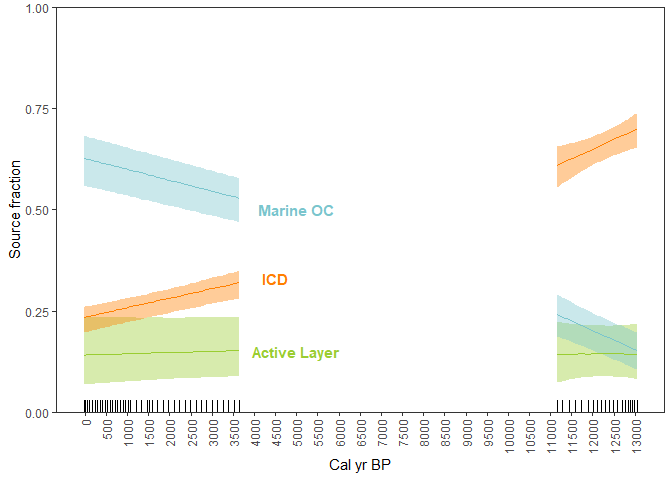
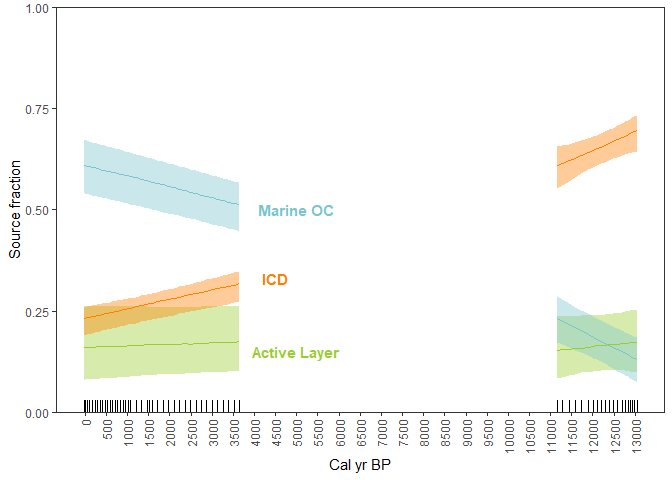
New run with longer adaption phase to supress warning

diff --git a/README.md b/README.md
@@ -1,24 +1,14 @@
-Code for reproducing source apportionment in [Martens et.al. (2019)
-*Global Biogeochemical Cycles*, 33,
-2-14](https://agupubs.onlinelibrary.wiley.com/doi/full/10.1029/2018GB005969)
+Code for reproducing source apportionment in [Martens et.al. (2019) *Global Biogeochemical Cycles*, 33, 2-14](https://agupubs.onlinelibrary.wiley.com/doi/full/10.1029/2018GB005969)
 ================
 
 ### Statistical model
 
-See article supporting information for model details implemented in
-[`model.jags`](model.jags).
+See article supporting information for model details implemented in [`model.jags`](model.jags).
 
 ### Preparation
 
 ``` r
 library(tidyverse)
-```
-
-    ## Warning: package 'tidyverse' was built under R version 3.5.2
-
-    ## Warning: package 'tibble' was built under R version 3.5.2
-
-``` r
 library(readxl)
 library(rjags)
 library(cowplot)
@@ -33,24 +23,24 @@ end_members <- read_csv("end_members.csv")
 knitr::kable(end_members)
 ```
 
-| Variable | Source        | Isotope |   value | SI\_table |
-| :------- | :------------ | :------ | ------: | :-------- |
-| mean     | ICD           | d13C    |  \-26.3 | S7        |
-| s.d.     | ICD           | d13C    |     1.3 | S7        |
-| mean     | Active\_Layer | d13C    |  \-27.1 | S6        |
-| s.d.     | Active\_Layer | d13C    |     1.0 | S6        |
-| mean     | M\_Young      | d13C    |  \-21.0 | S9        |
-| s.d.     | M\_Young      | d13C    |     2.6 | S9        |
-| mean     | M\_old        | d13C    |  \-22.7 | S8        |
-| s.d.     | M\_old        | d13C    |     3.5 | S8        |
-| mean     | ICD           | D14C    | \-962.0 | S7        |
-| s.d.     | ICD           | D14C    |    61.0 | S7        |
-| mean     | Active\_Layer | D14C    | \-173.0 | S6        |
-| s.d.     | Active\_Layer | D14C    |   163.0 | S6        |
-| mean     | M\_Young      | D14C    |  \-50.0 | S9        |
-| s.d.     | M\_Young      | D14C    |    12.0 | S9        |
-| mean     | M\_old        | D14C    |  \-16.0 | S8        |
-| s.d.     | M\_old        | D14C    |    53.0 | S8        |
+| Variable | Source        | Isotope |   value| SI\_table |
+|:---------|:--------------|:--------|-------:|:----------|
+| mean     | ICD           | d13C    |   -26.3| S7        |
+| s.d.     | ICD           | d13C    |     1.3| S7        |
+| mean     | Active\_Layer | d13C    |   -27.1| S6        |
+| s.d.     | Active\_Layer | d13C    |     1.0| S6        |
+| mean     | M\_Young      | d13C    |   -21.0| S9        |
+| s.d.     | M\_Young      | d13C    |     2.6| S9        |
+| mean     | M\_old        | d13C    |   -22.7| S8        |
+| s.d.     | M\_old        | d13C    |     3.5| S8        |
+| mean     | ICD           | D14C    |  -962.0| S7        |
+| s.d.     | ICD           | D14C    |    61.0| S7        |
+| mean     | Active\_Layer | D14C    |  -173.0| S6        |
+| s.d.     | Active\_Layer | D14C    |   163.0| S6        |
+| mean     | M\_Young      | D14C    |   -50.0| S9        |
+| s.d.     | M\_Young      | D14C    |    12.0| S9        |
+| mean     | M\_old        | D14C    |   -16.0| S8        |
+| s.d.     | M\_old        | D14C    |    53.0| S8        |
 
 ``` r
 # Helper functions
@@ -61,7 +51,7 @@ source("functions.R")
 
 ``` r
 # Parameters for MCMC
-N <- 1000000
+N <- 5000000
 thin <- 1000
 # Young part of the core
 isotopes_young <- filter(isotope_data, age < 8000)
@@ -76,11 +66,6 @@ em_old <- filter(end_members, Source != "M_young")
 out_old <-  run_jags(isotopes_old, "model.jags", em_old, N, thin)
 ```
 
-    ## Warning in jags.model(file, data = jags.data, n.chains = 1, quiet = TRUE):
-    ## Adaptation incomplete
-
-    ## NOTE: Stopping adaptation
-
 ### Visualisation of results
 
 ``` r
@@ -91,7 +76,7 @@ plot_p(out_young, out_old, isotopes_young, isotopes_old) +
                  fontface="bold")
 ```
 
-![](README_files/figure-gfm/unnamed-chunk-3-1.png)<!-- -->
+![](README_files/figure-markdown_github/unnamed-chunk-3-1.png)
 
 Posterior median proportions with 50% credibility regions.
 
@@ -99,7 +84,7 @@ Posterior median proportions with 50% credibility regions.
 plot_p2(out_young, out_old, isotopes_young, isotopes_old) 
 ```
 
-![](README_files/figure-gfm/unnamed-chunk-4-1.png)<!-- -->
+![](README_files/figure-markdown_github/unnamed-chunk-4-1.png)
 
 Posterior proportion densities at D14C sampling ages.
 
@@ -107,9 +92,9 @@ Posterior proportion densities at D14C sampling ages.
 sessionInfo()
 ```
 
-    ## R version 3.5.1 (2018-07-02)
+    ## R version 3.4.4 (2018-03-15)
     ## Platform: x86_64-w64-mingw32/x64 (64-bit)
-    ## Running under: Windows 10 x64 (build 17763)
+    ## Running under: Windows 10 x64 (build 16299)
     ## 
     ## Matrix products: default
     ## 
@@ -122,21 +107,21 @@ sessionInfo()
     ## [1] stats     graphics  grDevices utils     datasets  methods   base     
     ## 
     ## other attached packages:
-    ##  [1] bindrcpp_0.2.2  cowplot_0.9.3   rjags_4-8       coda_0.19-2    
+    ##  [1] bindrcpp_0.2.2  cowplot_0.9.3   rjags_4-6       coda_0.19-1    
     ##  [5] readxl_1.1.0    forcats_0.3.0   stringr_1.3.1   dplyr_0.7.8    
-    ##  [9] purrr_0.2.5     readr_1.2.1     tidyr_0.8.2     tibble_2.0.1   
+    ##  [9] purrr_0.3.0     readr_1.1.1     tidyr_0.8.2     tibble_2.0.1   
     ## [13] ggplot2_3.1.0   tidyverse_1.2.1
     ## 
     ## loaded via a namespace (and not attached):
-    ##  [1] tidyselect_0.2.5 haven_2.0.0      lattice_0.20-35  colorspace_1.3-2
-    ##  [5] generics_0.0.2   htmltools_0.3.6  yaml_2.2.0       rlang_0.3.1     
-    ##  [9] pillar_1.3.1     glue_1.3.0       withr_2.1.2      modelr_0.1.2    
-    ## [13] bindr_0.1.1      plyr_1.8.4       munsell_0.5.0    gtable_0.2.0    
-    ## [17] cellranger_1.1.0 rvest_0.3.2      evaluate_0.12    labeling_0.3    
-    ## [21] knitr_1.20       highr_0.7        broom_0.5.1      Rcpp_1.0.0      
-    ## [25] scales_1.0.0     backports_1.1.2  jsonlite_1.6     hms_0.4.2       
-    ## [29] digest_0.6.18    stringi_1.2.4    grid_3.5.1       cli_1.0.1       
-    ## [33] tools_3.5.1      magrittr_1.5     lazyeval_0.2.1   crayon_1.3.4    
+    ##  [1] tidyselect_0.2.5 haven_1.1.2      lattice_0.20-35  colorspace_1.3-2
+    ##  [5] htmltools_0.3.6  yaml_2.2.0       rlang_0.3.1      pillar_1.3.1    
+    ##  [9] glue_1.3.0       withr_2.1.2      modelr_0.1.2     bindr_0.1.1     
+    ## [13] plyr_1.8.4       munsell_0.5.0    gtable_0.2.0     cellranger_1.1.0
+    ## [17] rvest_0.3.2      evaluate_0.11    labeling_0.3     knitr_1.20      
+    ## [21] highr_0.7        broom_0.5.0      Rcpp_0.12.19     scales_1.0.0    
+    ## [25] backports_1.1.2  jsonlite_1.5     hms_0.4.2        digest_0.6.18   
+    ## [29] stringi_1.1.7    grid_3.4.4       rprojroot_1.3-2  cli_1.0.1       
+    ## [33] tools_3.4.4      magrittr_1.5     lazyeval_0.2.1   crayon_1.3.4    
     ## [37] pkgconfig_2.0.2  xml2_1.2.0       lubridate_1.7.4  assertthat_0.2.0
-    ## [41] rmarkdown_1.11   rematch_1.0.1    httr_1.3.1       rstudioapi_0.8  
-    ## [45] R6_2.3.0         nlme_3.1-137     compiler_3.5.1
+    ## [41] rmarkdown_1.10   rematch_1.0.1    httr_1.3.1       rstudioapi_0.8  
+    ## [45] R6_2.2.2         nlme_3.1-131.1   compiler_3.4.4
